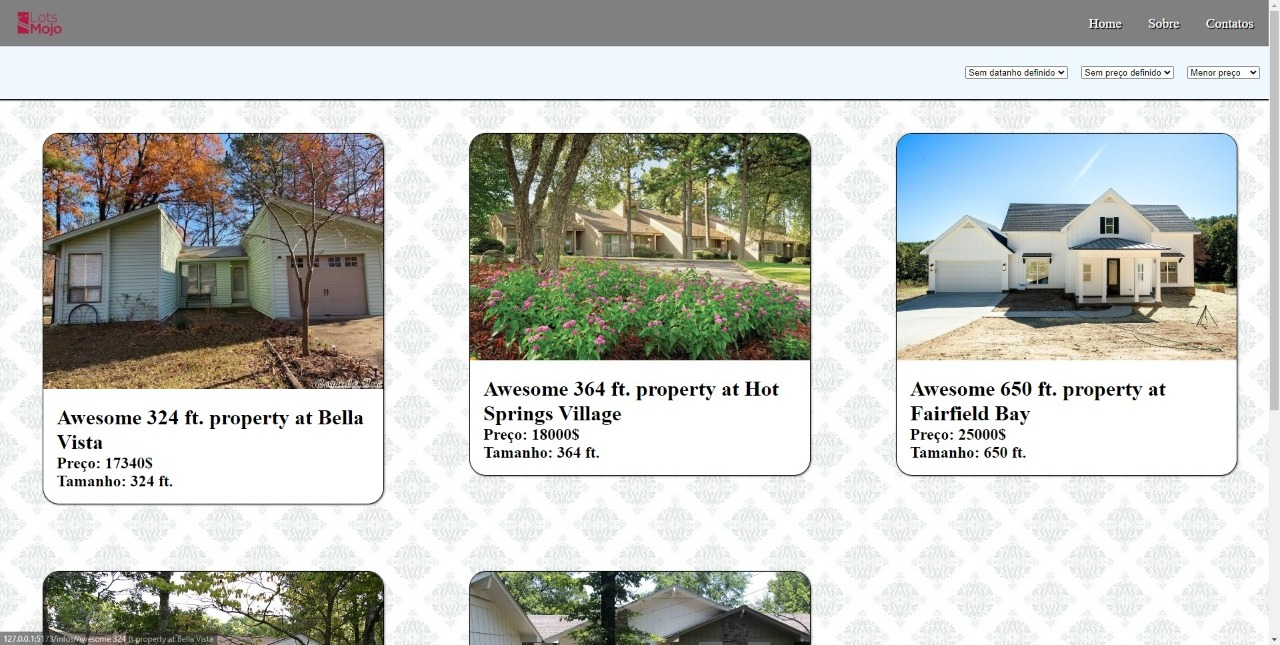
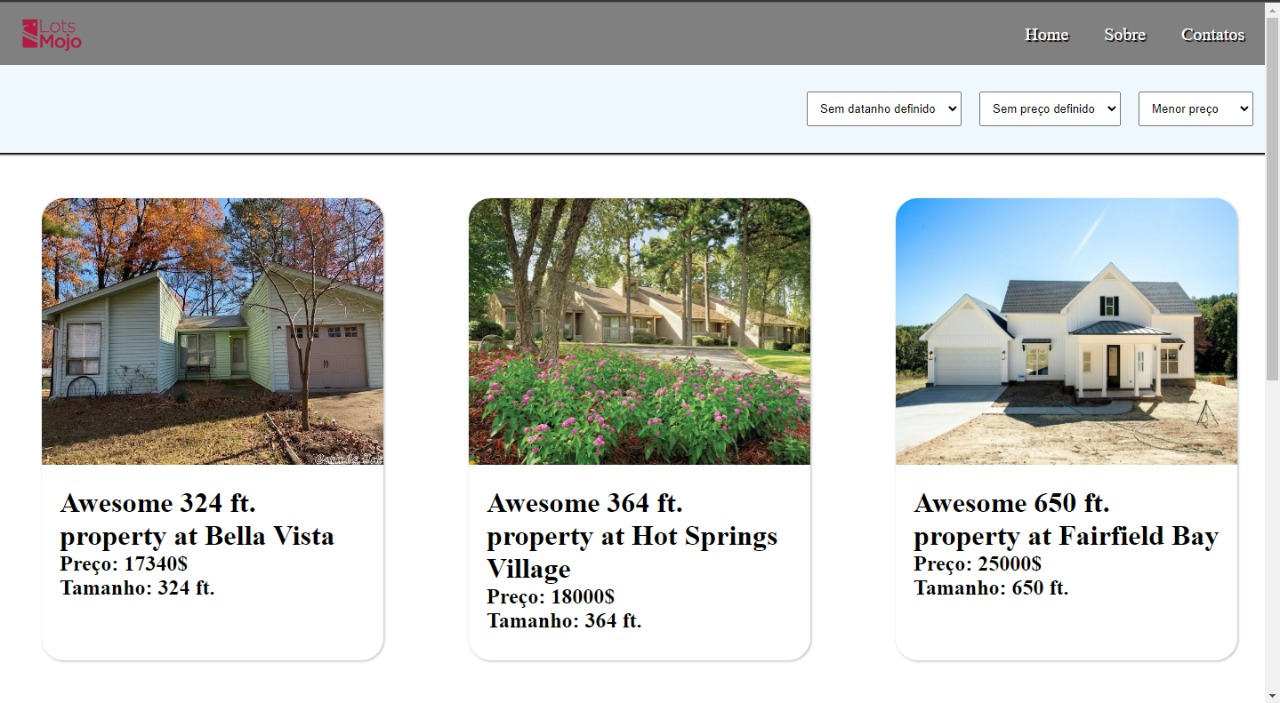
update

diff --git a/src/Acquisition.tsx b/src/Acquisition.tsx
@@ -12,6 +12,8 @@ const AcquisitionDiv = styled.div`
     justify-content: center;
     align-items: center;
     flex-direction: column;
+    height: calc(100vh - 70px);
+    background-color: #00000034;
     
     
     div{
@@ -22,11 +24,30 @@ const AcquisitionDiv = styled.div`
     h1{
       margin-bottom: 50px;
     }
-    input{
-      margin-bottom: 50px;
-    }
     hr{
-      margin-bottom: 50px;
+      margin-bottom: 15px;
+    }
+    form{
+      display: flex;
+      flex-direction: column;
+    }
+    input{
+      padding: 10px;
+      height: 50px;
+      margin-bottom: 5px;
+      background-color: #c0c0c0;
+      border-radius: 5px;
+      border-color: #00000070;
+    }
+    button{
+      padding: 10px;
+      height: 50px;
+      margin-bottom: 5px;
+      background-color: cyan;
+      border-radius: 5px;
+      border-color: #25b1b1;
+      color: black;
+      font-size: 25px;
     }
 `
 
@@ -38,18 +59,15 @@ function Acquisition() {
         <Header></Header>
         <AcquisitionDiv>
           <div>
-            <h1>Aquisição da propriedade {id} </h1>
+            <h1>{id}</h1>
             <hr />
             <form method='POST'>
-              <h2>Nome Completo</h2>
-              <input type="text" placeholder='Nome próprio'/> <input type="text" placeholder='Nome completo'/>
-              <h2>CPF, CNPJ ou Passaporte</h2>
-              <input type="text"/>
-              <h2>E-mail</h2>
-              <input type="email"/>
-              <h2>Telefone</h2>
-              <input type="text"/> - <input type="text"/> <br />
-              <input type="button" value="Confirmar Interece"/>
+              <input type="text" placeholder='Nome'/>
+              <input type="text" placeholder='Sobrenome'/>
+              <input type="text" placeholder='CPF, CNPJ ou Passaporte'/>
+              <input type="email" placeholder='E-mail'/>
+              <input type="tel" placeholder="Telefone"/>
+              <button>Enviar</button>
             </form>
           </div>
         </AcquisitionDiv>

diff --git a/src/Home.tsx b/src/Home.tsx
@@ -9,6 +9,7 @@ const Content = styled.div`
     background-color: #ffffff99;
     
   #lotsList{
+    width: 100%;
     height: 100%;
     padding-top: 50px;
     display: grid;
@@ -21,7 +22,7 @@ const Content = styled.div`
 
   #configs{
     background-color: aliceblue;
-    height: 80px;
+    height: 100px;
     padding: 30px;
     border-bottom: 1px solid black;
     box-shadow: 0px 1px 2px black;
@@ -29,11 +30,25 @@ const Content = styled.div`
   select{
     float: right;
     margin-left: 20px;
+    padding: 10px;
   }
 
   @media (max-width: 1000px) {
     #lotsList{
         grid-template-columns: 1fr 1fr;
+    }
+    #configs{
+        height: 160px;
+        padding: 0px;
+        display: flex;
+        flex-direction: column;
+        justify-content: center;
+        align-items: center;
+    }
+    select{
+        float: left;
+        width: 90%;
+        margin: 5px 0px;
     }
   }
   @media (max-width: 800px) {
@@ -50,6 +65,7 @@ interface PropertyInterface {
   thumbnail:  string,
   price:      number,
   sizeInFeet: number,
+  id: number,
   [type: string]: number | string;
 }
 
@@ -151,7 +167,7 @@ function Home() {
             </select>
         </div>
         <div id='lotsList'>
-            {properties.map((property, i)=><Card name={property.name} thumbnail={property.thumbnail} price={property.price} sizeInFeet={property.sizeInFeet} key={i}></Card>)}
+            {properties.map((property, i)=><Card name={property.name} thumbnail={property.thumbnail} price={property.price} sizeInFeet={property.sizeInFeet} id={property.id} key={i}></Card>)}
         </div>
     </Content>
   )

diff --git a/src/Info.tsx b/src/Info.tsx
@@ -6,6 +6,7 @@ import { useParams, Link } from 'react-router-dom'
 const Content = styled.div`
     width: 100vw;
     height: 100vh;
+    font-weight: 200;
     #contentInfo{
         height: calc(100% - 70px);
         display: flex;
@@ -48,7 +49,7 @@ const Content = styled.div`
         width: 30%;
     }
     .divThumb>img{
-        width: 100%;
+        height: 100px;
     }
     #btn-acquisition{
         width: 100%;
@@ -99,16 +100,16 @@ function Info() {
     'https://mapio.net/images-immo-detalhe/3488668/casa-com-3-quartos-a-venda-150-m2-por-r-590000-santo-andre-sao-leopoldo-rs-img-0.jpeg'
   ]
   useEffect(()=>{ 
-    fetch("https://lotsmojotest.herokuapp.com/properties/list").then(respOnServer=>{
+    fetch(`https://lotsmojotest.herokuapp.com/properties/find/${id}`).then(respOnServer=>{
       if(respOnServer.ok){
         return respOnServer.json()
       }
-    }).then((respOnJson:{data:Array<LotInterface>})=>{
-        respOnJson.data.forEach(lot=>{
-            if(lot.name.replace(".", "") === id){
-                setLots(lot)
-            }
-        })
+    }).then((respOnJson:{data:LotInterface})=>{
+        if(respOnJson.data){
+            setLots(respOnJson.data)
+        } else {
+            alert("página não encontrada")
+        }
     })}, [])
     function updateThumb(event:React.MouseEvent<HTMLImageElement, MouseEvent>){
         let element = event.target as HTMLImageElement

diff --git a/src/components/Card.tsx b/src/components/Card.tsx
@@ -4,18 +4,24 @@ import styled from "styled-components"
 
 const CardDiv = styled.div`
     width: 100%;
-    border: 1px solid black;
+    height: 520px;
+    border: 1px solid 0005;
     border-radius: 25px;
     overflow: hidden;
     margin-bottom: 100px;
-    box-shadow: .5px .5px 3px #00000085;
+    box-shadow: .5px .5px 3px #00000047;
     color: black;
     background-color: white;
+    transition: .1s;
+    &:hover{
+        transform: scale(1.1);
+    }
     div{
         padding: 20px;
     }
     img{
         width: 100%;
+        height: 300px;
     }
 `
 
@@ -24,11 +30,12 @@ interface CardProps{
     thumbnail:  string,
     price:      number,
     sizeInFeet: number,
+    id:         number
 }
 
 const Card: FunctionComponent<CardProps> = (props)=>{
     return(
-        <Link to={`/infos/${props.name.replace(".", "")}`}>
+        <Link to={`/infos/${props.id}`}>
             <CardDiv>
                 <img src={props.thumbnail} alt={props.name} />
                 <div>

diff --git a/index.html b/index.html
@@ -4,6 +4,7 @@
     <meta charset="UTF-8" />
     <meta name="viewport" content="width=device-width, initial-scale=1.0" />
     <title>Lots Mojo</title>
+    <link rel="shortcut icon" href="https://spiny-creek-7d3.notion.site/image/https%3A%2F%2Fs3-us-west-2.amazonaws.com%2Fsecure.notion-static.com%2F87d20700-9896-4d7c-8def-fcfb60adce9a%2FVermelha.png?table=block&id=29ad9760-1b09-4a13-b4ac-42e3bff0ca25&spaceId=887f9623-c675-4101-b8f5-fde68443a0f4&width=250&userId=&cache=v2" type="image/x-icon">
   </head>
   <body>
     <div id="root"></div>

diff --git a/src/main.tsx b/src/main.tsx
@@ -31,7 +31,7 @@ const GlobalStyle = createGlobalStyle`
     text-decoration: none;
   }
   body{
-    background-image: url("https://encrypted-tbn0.gstatic.com/images?q=tbn:ANd9GcTVW60DZm5zjUF0KehcFHuJlkHFkwdyxuQCkGd9KEituyfm6ovCnSF0O4IRzNqTwr5OVWo&usqp=CAU");
+    background-color: #fff6;
     overflow-x: hidden;
   }
 `

diff --git a/README.md b/README.md
@@ -18,7 +18,7 @@
 <h3>Mobile</h3>
 <img src="./public/assets-readme/home-mobile.jpeg"/>
 
-<h2>infos</h2>
+<h2>Infos</h2>
 <p>Essa tela mostra as informações de cada propriedade, mostrando outras fotos que podem conter e seus detalhes, para o cliente saber como ela é</p>
 
 <h3>Desktop</h3>
@@ -26,4 +26,12 @@
 
 <h3>Mobile</h3>
 <img src="./public/assets-readme/infos-mobile.jpeg"/>
-<h2>aquisition</h2>
+
+<h2>Aquisition</h2>
+<p>Essa tela é onde a compre seria efetivada, como no teste não foi exclaricido quais campos deveria se ter, coloque alguns só como demonstrativo</p>
+
+<h3>Desktop</h3>
+<img src="./public/assets-readme/sale-desktop.jpeg"/>
+
+<h3>Mobile</h3>
+<img src="./public/assets-readme/sale-mobile.jpeg"/>
